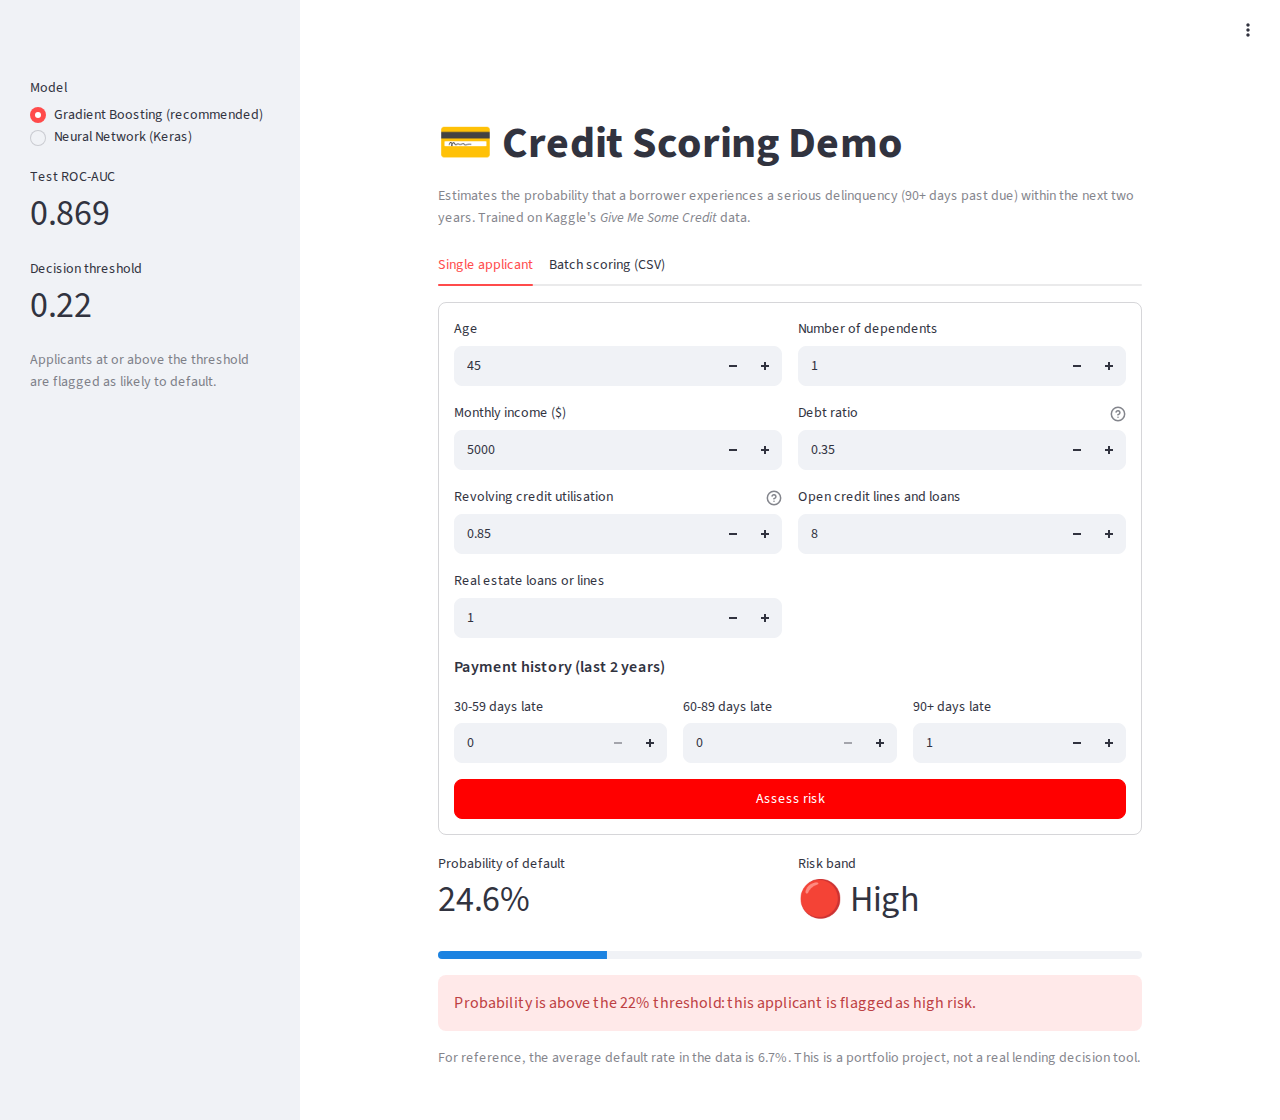
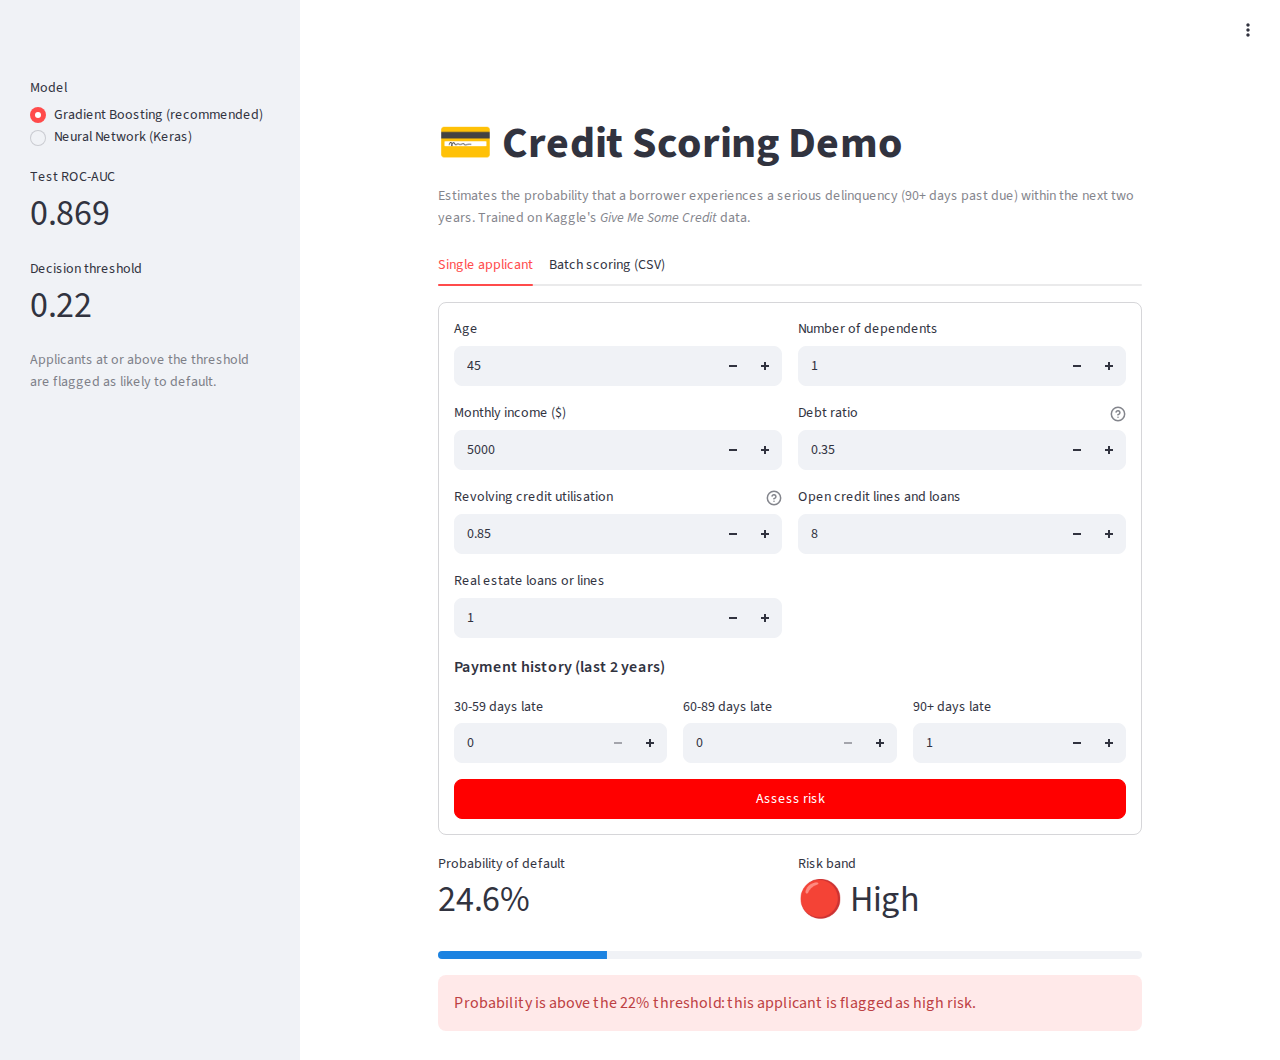
Remove disclaimer caption from the demo result

diff --git a/app/streamlit_app.py b/app/streamlit_app.py
@@ -76,10 +76,6 @@ with single:
             box(f"Probability is above the {threshold:.0%} threshold: this applicant is flagged as high risk.")
         else:
             box(f"Probability is below the {threshold:.0%} threshold: this applicant is not flagged.")
-        st.caption(
-            f"For reference, the average default rate in the data is {meta['test_default_rate']:.1%}. "
-            "This is a portfolio project, not a real lending decision tool."
-        )
 
 with batch:
     st.write(
